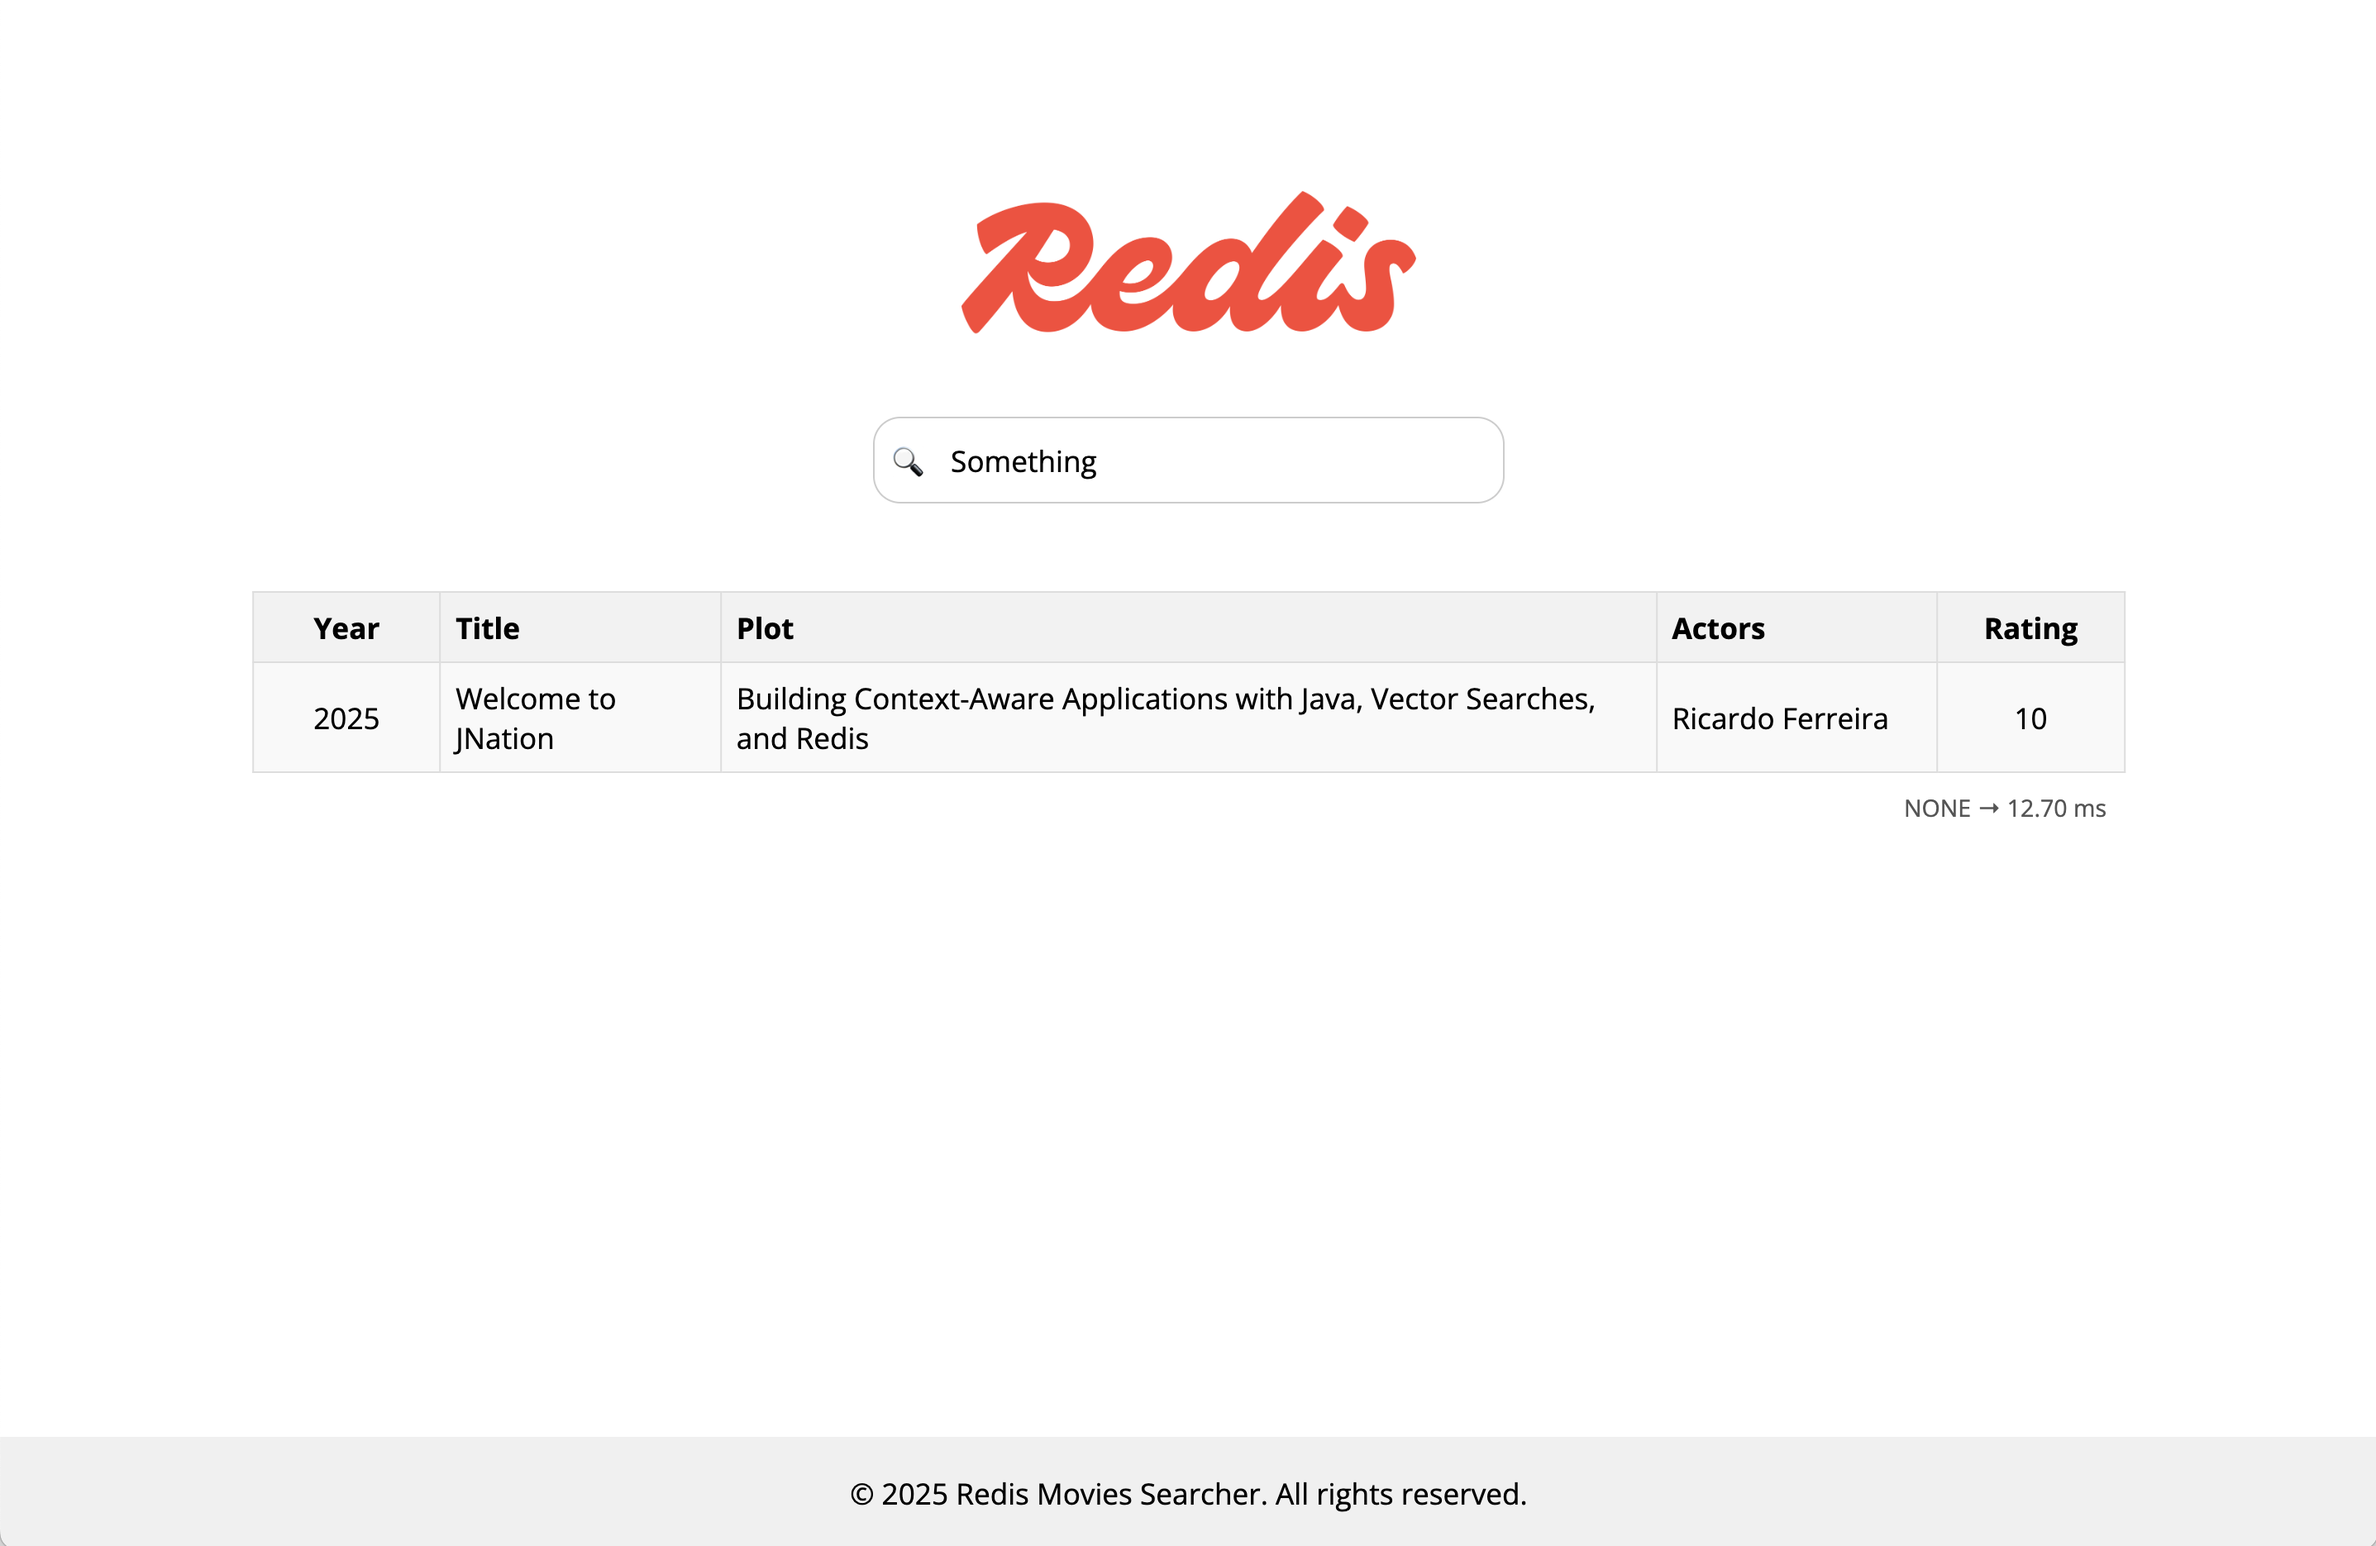
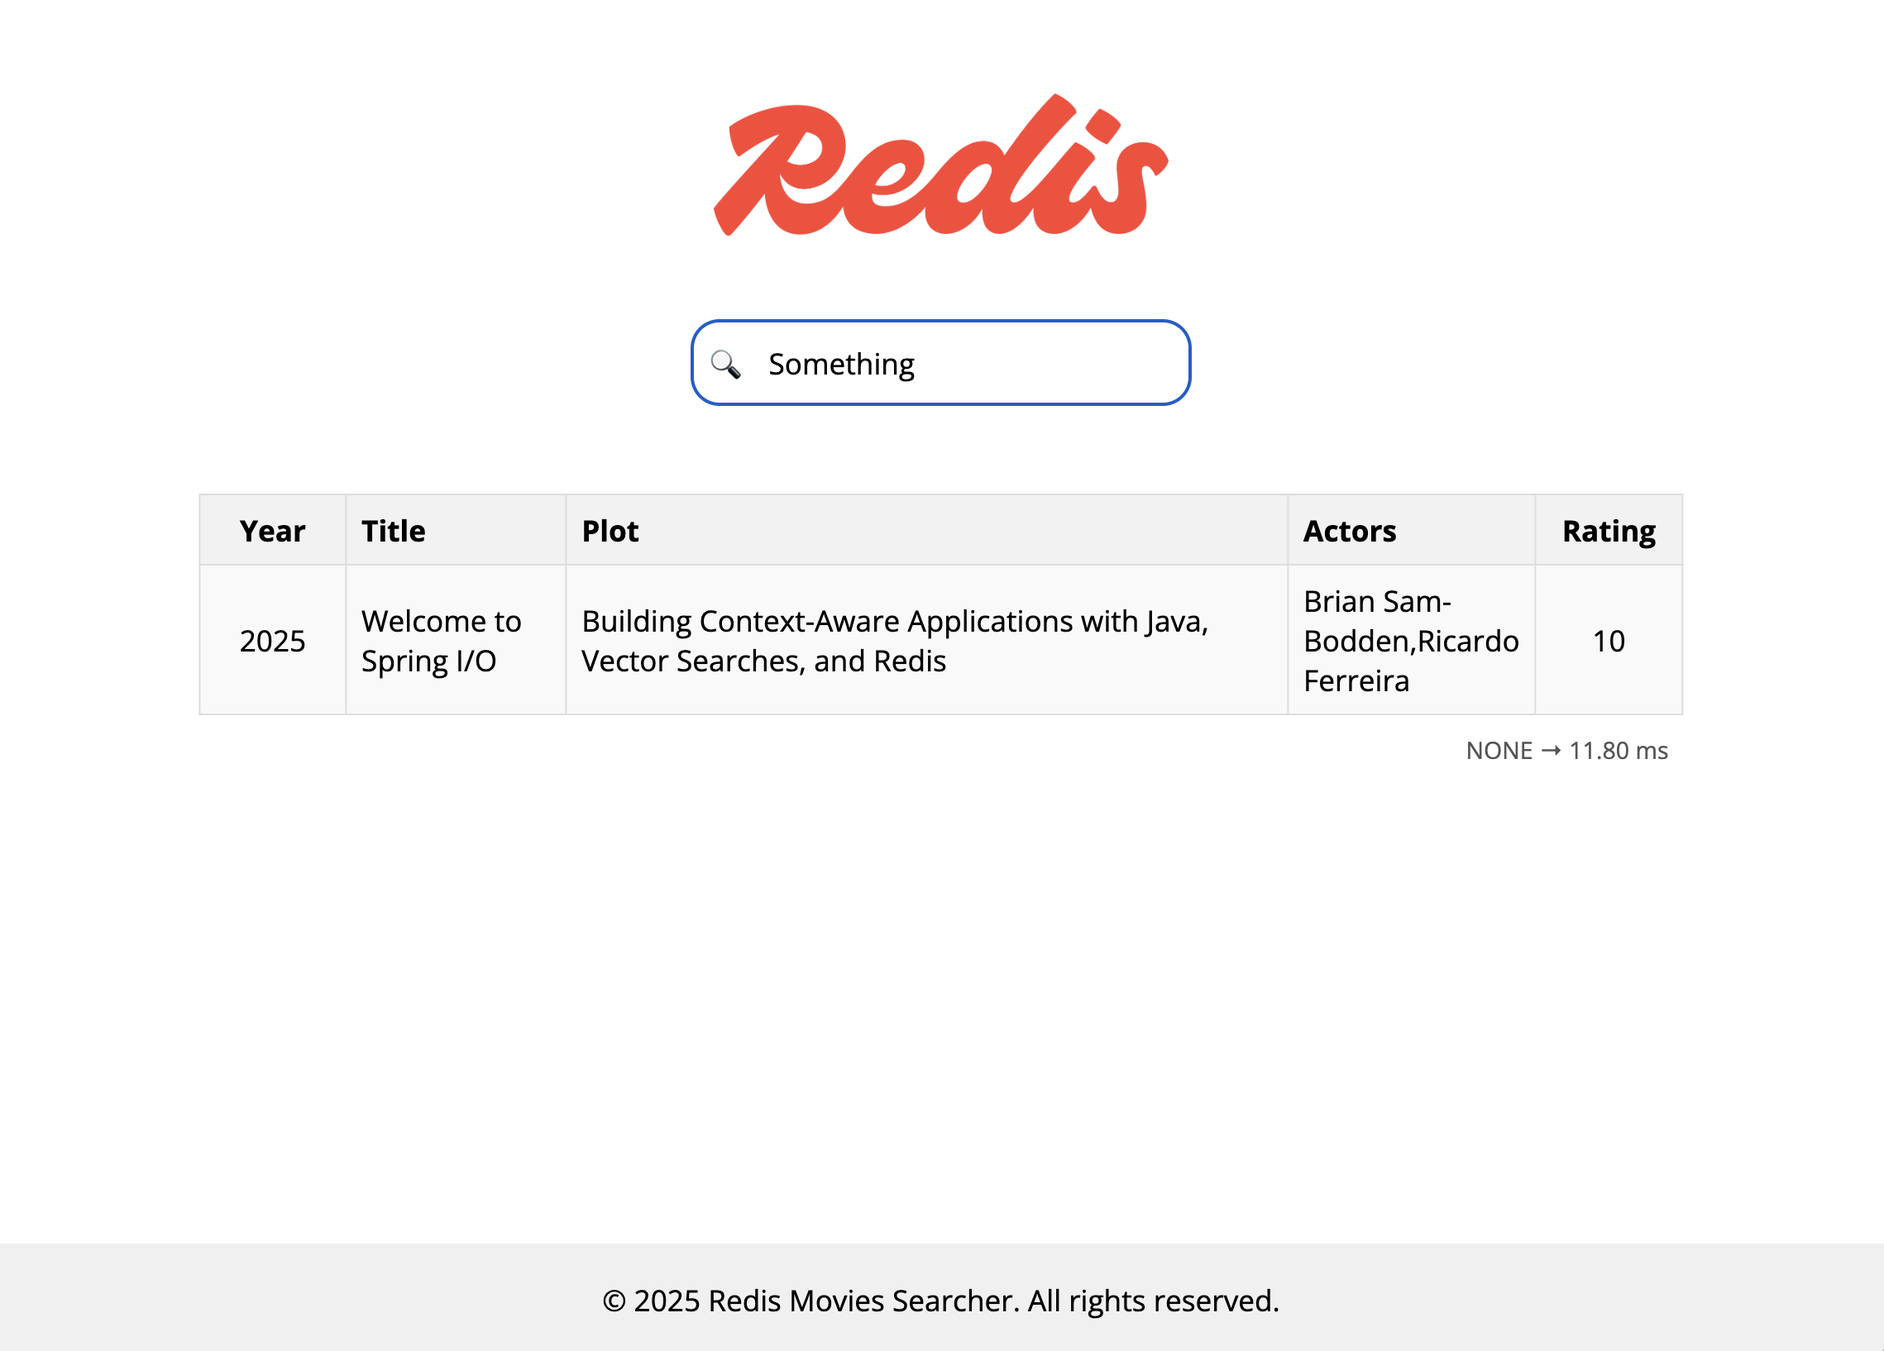
Spring I/O 2025

diff --git a/src/main/java/io/redis/movies/searcher/core/service/SearchService.java b/src/main/java/io/redis/movies/searcher/core/service/SearchService.java
@@ -21,9 +21,9 @@ public class SearchService {
         final int resultLimit = (limit == null) ? 3 : limit;
 
         List<Movie> movies = List.of(new Movie(
-                1, "Welcome to JNation", 2025,
+                1, "Welcome to Spring I/O", 2025,
                 "Building Context-Aware Applications with Java, Vector Searches, and Redis",
-                "2025-05-28", 10.0, List.of("Ricardo Ferreira")));
+                "2025-05-28", 10.0, List.of("Brian Sam-Bodden", "Ricardo Ferreira")));
 
         return new Pair<>(convertToDTOs(movies), ResultType.NONE);
     }
